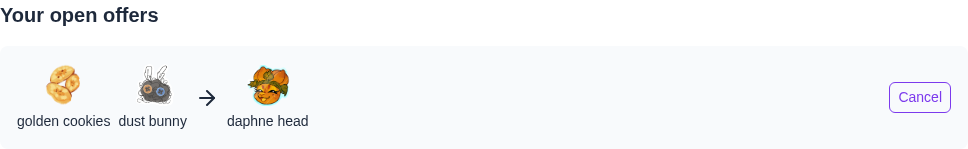
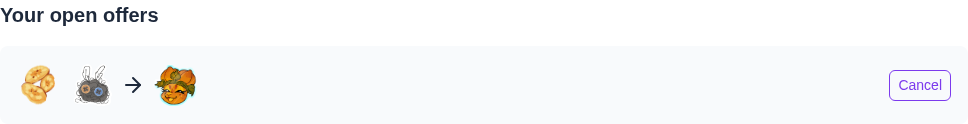
feat(frontend): candy pictures without names in swap offers

diff --git a/apps/frontend/src/components/halloween/__tests__/CandySwapView.test.tsx b/apps/frontend/src/components/halloween/__tests__/CandySwapView.test.tsx
@@ -68,8 +68,17 @@ describe("CandySwapView", () => {
 
       const offers = section("Offers you can take");
       const card = within(offers).getByRole("listitem");
-      expect(within(card).getByText("luther head")).toBeInTheDocument();
-      expect(within(card).getByText("berry tart")).toBeInTheDocument();
+      expect(
+        within(card).getByRole("img", { name: "luther head" }),
+      ).toBeInTheDocument();
+      expect(
+        within(card).getByRole("img", { name: "berry tart" }),
+      ).toBeInTheDocument();
+      expect(
+        within(card).getByRole("img", { name: "banana" }),
+      ).toBeInTheDocument();
+      // Pictures only: the names are for screen readers.
+      expect(within(card).queryByText("luther head")).toBeNull();
 
       await userEvent.click(
         within(card).getByRole("button", { name: "Trade your banana" }),

diff --git a/apps/frontend/src/components/halloween/CandySwapView.tsx b/apps/frontend/src/components/halloween/CandySwapView.tsx
@@ -53,21 +53,14 @@ const Candy = ({ slug, small }: { slug: string; small?: boolean }) => (
   />
 );
 
-const NamedCandy = ({ slug }: { slug: string }) => (
-  <span className={styles.namedCandy}>
-    <img className={styles.candy} src={candyImageUrl(slug)} alt="" />
-    {candyName(slug)}
-  </span>
-);
-
 /** What an offer gives, and what it asks for. */
 const OfferTerms = ({ offer }: { offer: SwapOffer }) => (
   <Cluster gap="sm">
     {offer.candies.map((c) => (
-      <NamedCandy key={c.id} slug={c.slug} />
+      <Candy key={c.id} slug={c.slug} />
     ))}
     <ArrowRight aria-label="for" />
-    <NamedCandy slug={offer.wantSlug} />
+    <Candy slug={offer.wantSlug} />
   </Cluster>
 );
 

diff --git a/apps/frontend/src/components/halloween/CandySwapView.css.ts b/apps/frontend/src/components/halloween/CandySwapView.css.ts
@@ -60,17 +60,6 @@ export const candy = style({
   objectFit: "contain",
 });
 
-/** A candy with its name under it, in an offer. */
-export const namedCandy = style({
-  display: "flex",
-  flexDirection: "column",
-  alignItems: "center",
-  gap: vars.space.xs,
-  fontSize: vars.font.size.sm,
-  color: vars.text.default,
-  textAlign: "center",
-});
-
 export const label = style({
   margin: 0,
   fontSize: vars.font.size.sm,

diff --git a/apps/e2e/tests/halloween/candy-swap.e2e.ts b/apps/e2e/tests/halloween/candy-swap.e2e.ts
@@ -18,7 +18,7 @@ test.describe("the candy swap", () => {
     page,
   }) => {
     const offers = page.getByRole("region", { name: "Offers you can take" });
-    await expect(offers.getByText("berry tart")).toBeVisible();
+    await expect(offers.getByRole("img", { name: "berry tart" })).toBeVisible();
     // Whose it is shows only once it is traded.
     await expect(offers.getByText("alice")).toHaveCount(0);
 
